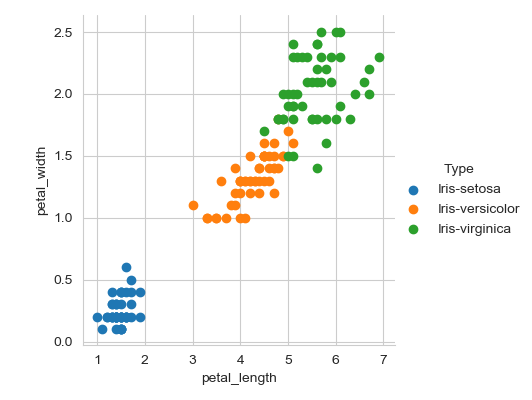
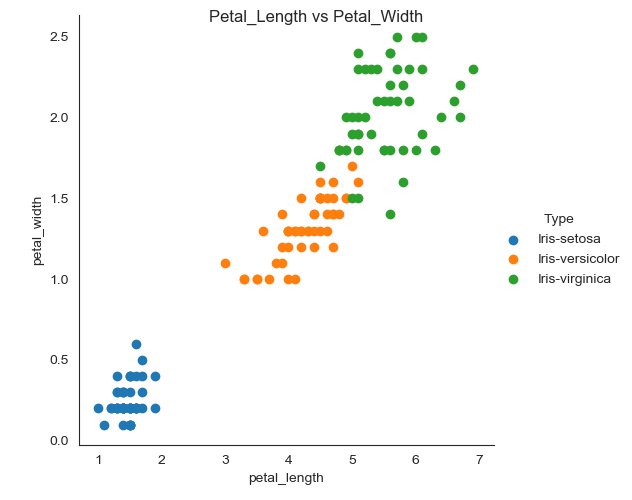
created scatter plots for sepal_length_vs_sepal_width

diff --git a/analysis.py b/analysis.py
@@ -4,7 +4,7 @@
 import numpy as np # importing numpy
 import pandas as pd # importing pandas library
 import matplotlib.pyplot as plt  # importing matplotlib library
-import seaborn as sns
+import seaborn as sns # importing seaborn library
 
 
 pd.read_csv("https://raw.githubusercontent.com/G00387867/pands-project/master/iris.data") # recalling the iris file from own repository
@@ -14,84 +14,71 @@ pd.read_csv("https://raw.githubusercontent.com/G00387867/pands-project/master/ir
 variables =['sepal_length','sepal_width','petal_length','petal_width','Type'] 
 df = pd.read_csv("https://raw.githubusercontent.com/G00387867/pands-project/master/iris.data", names = variables)
 
-# analysing the dataset
-# https://github.com/RitRa/Project2018-iris
-# https://stackoverflow.com/questions/48158688/save-pandas-describe-for-human-readibility/48158748
 
-from pandas.plotting import table
+# https://github.com/RitRa/Project2018-iris
+# analysing the dataset's main datapoints
+
 summary = df.describe()
 summary = summary.transpose()
 summary = summary.head()
-# creating a subplot without frame
-ax = plt.subplot(111, frame_on = False)
-# remove axis
-ax.xaxis.set_visible(False) 
-ax.yaxis.set_visible(False) 
-# creating the table and positioning
-table(ax, summary, loc = "upper right")
-plt.savefig("Summary_Iris.png")
-# change image resolution
-# https://stackoverflow.com/questions/9174338/programmatically-change-image-resolution
-from PIL import Image
-im = Image.open("Summary_Iris.png")
-im.save("Summary_Iris.png", dpi=(600,600)
-plt.show()
-
 
 # Specifications for petal_length variable:
 
 plt.hist(df["petal_length"]) # creating histogram
 plt.title("Petal_length") # adding title 
 plt.savefig("Petal_length.png") # saving the graphs
+plt.clf()
 
 # creating a text file and saving a summary  of petal_length variable using
 #  describe() command to the same text file.
 
 petal_length = df["petal_length"]
 petal_length.describe().to_string("Summary_petal_length.txt", index = True, header = True)
-plt.clf()
+
 
 # Specifications for petal_width variable:
+
 
 plt.hist(df["petal_width"]) # creating histogram
 plt.title("Petal_width") # adding title 
 plt.savefig("Petal_width.png") # saving the graph
-plt.show()
+plt.clf()
 
 # creating a text file and saving a summary  of petal_width variable using
 #  describe() command to the same text file.
 
 petal_width = df["petal_width"]
 petal_width.describe().to_string("Summary_petal_width.txt", index = True, header = True)
-plt.clf()
+
 
 # Specifications for sepal_length variable:
+
 
 plt.hist(df["sepal_length"]) # creating histogram
 plt.title("Sepal_length") # adding title 
 plt.savefig("Sepal_length.png") # saving the graph
-
+plt.clf()
 
 # creating a text file and saving a summary  of sepal_length variable using
 #  describe() command to the same text file.
 
 sepal_length = df["sepal_length"]
 sepal_length.describe().to_string("Summary_sepal_length.txt", index = True, header = True)
-plt.clf()
+
 
 # Specifications for sepal_width variable:
+
 
 plt.hist(df["sepal_width"]) # creating histogram
 plt.title("Sepal_width") # adding title 
 plt.savefig("Sepal_width.png") # saving the graph
-
+plt.clf()
 
 # creating a text file and saving a summary  of sepal_width variable using
 #  describe() command to the same text file.
 
 sepal_width = df["sepal_width"]
 sepal_width.describe().to_string("Summary_sepal_width.txt", index = True, header = True)
-plt.clf()
 
 
 # Specifications for Type variable:
@@ -99,14 +86,14 @@ plt.clf()
 plt.hist(df["Type"]) # creating histogram
 plt.title("Type") # adding title 
 plt.savefig("Type.png") # saving the graph
-
+plt.clf()
 
 # creating a text file and saving a summary  of Type variable using
 #  describe() command to the same text file.
 
 Type = df["Type"]
 Type.describe().to_string("Summary_type.txt", index = True, header = True)
-plt.clf()
+
 
 # creating a scatter plot for each pair of variables by using pairplot function from seaborn library
 # In order to investigate in pairs I have refereed to following analysis: https://github.com/RitRa/Project2018-iris/blob/master/Project%2B2018%2B-%2BFishers%2BIris%2Bdata%2Bset%2Banalysis.ipynb
@@ -117,11 +104,26 @@ plt.clf()
 
 
 # investigating in pairs
-# 
 
-sns.set_style("whitegrid")
-sns.FacetGrid(df,hue="Type",height=4).map(plt.scatter,"petal_length","petal_width").add_legend()
+# scatter Petal_Length_vs_Petal_width
+# code refernced from https://medium.com/@avulurivenkatasaireddy/exploratory-data-analysis-of-iris-data-set-using-python-823e54110d2d
+# There was an issue with inserting the title as the letters were cut, researched solution from 
+# https://github.com/mwaskom/seaborn/issues/1114
+
+sns.set_style("white")
+sns.FacetGrid(df,hue="Type",height=5).map(plt.scatter,"petal_length","petal_width").add_legend()
+plt.suptitle("Petal_Length vs Petal_Width")
 plt.savefig("Petal_Length_vs_Petal_width.png")
 plt.clf()
-plt.show()
 
+
+# scatter Sepal_length_vs_Sepal_Width
+# code refernced from https://medium.com/@avulurivenkatasaireddy/exploratory-data-analysis-of-iris-data-set-using-python-823e54110d2d
+# There was an issue with inserting the title as the letters were cut, researched solution from 
+# https://github.com/mwaskom/seaborn/issues/1114
+
+sns.set_style("white")
+sns.FacetGrid(df,hue="Type",height=5).map(plt.scatter,"sepal_length","sepal_width").add_legend()
+plt.suptitle("Sepal_Length vs Sepal_Width")
+plt.savefig("Sepal_Length_vs_Sepal_width.png")
+plt.clf()
